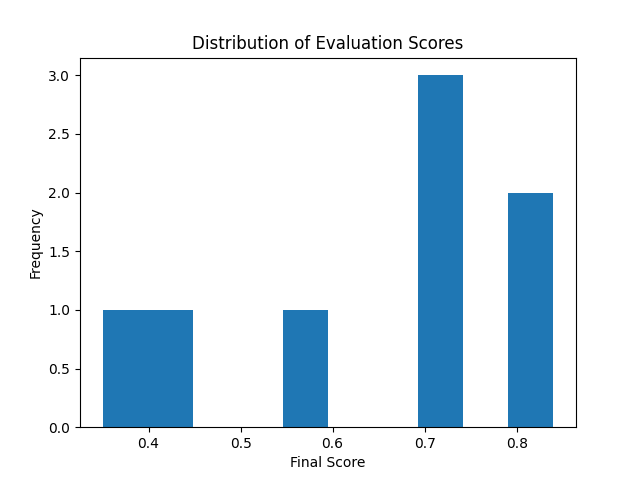
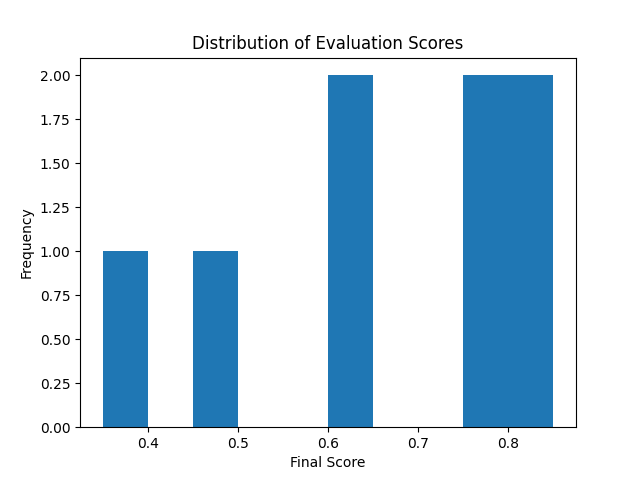
Update evaluation results and improve embedding functionality and Include FlagEmbedding in requirements

diff --git a/benchmark/utils/embeddings.py b/benchmark/utils/embeddings.py
@@ -1,6 +1,27 @@
-from sentence_transformers import SentenceTransformer
+# from sentence_transformers import SentenceTransformer
 
-_model = SentenceTransformer("all-MiniLM-L6-v2")
+# _model = SentenceTransformer("all-MiniLM-L6-v2")
+
+# def embed(texts):
+#     return _model.encode(texts, convert_to_tensor=True)
+
+from FlagEmbedding import BGEM3FlagModel
+
+_model = BGEM3FlagModel('BAAI/bge-m3', use_fp16=True)
 
 def embed(texts):
-    return _model.encode(texts, convert_to_tensor=True)
+
+    if isinstance(texts, str):
+        texts = [texts]
+        
+    embeddings = _model.encode(
+        texts, 
+        batch_size=12, 
+        max_length=8192,
+        return_dense=True, 
+        return_sparse=False, 
+        return_colbert_vecs=False
+    )
+    
+    
+    return embeddings['dense_vecs']

diff --git a/benchmark/src/metrics/semantic_similarity.py b/benchmark/src/metrics/semantic_similarity.py
@@ -2,6 +2,6 @@ from sklearn.metrics.pairwise import cosine_similarity
 from utils.embeddings import embed
 
 def semantic_similarity(question, response):
-    q = embed([question])
-    r = embed([response])
+    q = embed(question)
+    r = embed(response)
     return float(cosine_similarity(q, r)[0][0])

diff --git a/benchmark/src/metrics/factual_accuracy.py b/benchmark/src/metrics/factual_accuracy.py
@@ -2,6 +2,6 @@ from sklearn.metrics.pairwise import cosine_similarity
 from utils.embeddings import embed
 
 def factual_accuracy(response, corpus):
-    r = embed([response])
+    r = embed(response)
     c = embed(corpus)
     return float(cosine_similarity(r, c).max())
